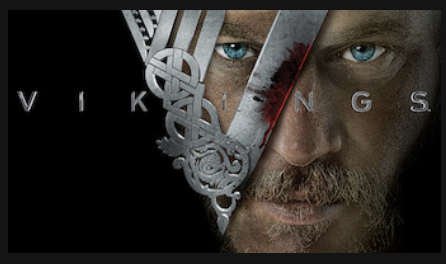
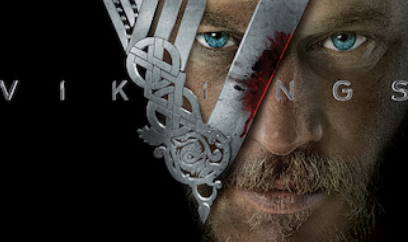
Añado las imagenes cartelera sección  documentales

Changed region(s): [[0.2353, 0.0, 1.0, 1.0], [0.0, 0.3182, 0.0882, 0.4339], [0.1471, 0.3182, 0.2059, 0.4339]]

diff --git a/css/style.css b/css/style.css
@@ -95,29 +95,64 @@ body{
     padding: 20px 25px;
 }
 
-.peli1{
-    background-color: yellow;
+.serie1{
     grid-column: 1/2;
+    display: flex;
+    justify-content: center;
+    align-items: center;
 }
 
-.peli2{
-    background-color: greenyellow;
+.serie1 img{
+    width: 95%;
+    height: 22.4vh;
+}
+
+.serie2{
     grid-column: 2/3;
+    display: flex;
+    justify-content: center;
+    align-items: center;
 }
 
-.peli3 {
-    background-color: yellow;
+.serie2 img{
+    width: 95%;
+    height: 22.4vh;
+}
+
+.serie3 {
     grid-column: 3/4;
+    display: flex;
+    justify-content: center;
+    align-items: center;
 }
 
-.peli4 {
-    background-color: greenyellow;
+.serie3 img{
+    width: 95%;
+    height: 22.4vh;
+}
+
+.serie4 {
     grid-column: 4/5;
+    display: flex;
+    justify-content: center;
+    align-items: center;
 }
 
-.peli5{
-    background-color: yellow;
+.serie4 img{
+    width: 95%;
+    height: 22.6vh;
+}
+
+.serie5{
     grid-column: 5/6;
+    display: flex;
+    justify-content: center;
+    align-items: center;
+}
+
+.serie5 img{
+    width: 95%;
+    height: 22.4vh;
 }
 
 .peli6 {

diff --git a/index.html b/index.html
@@ -43,11 +43,21 @@
 
       <!-- Main -->
       <div class="title">Documentales</div>
-      <div class="peli1">1</div>
-      <div class="peli2">2</div>
-      <div class="peli3">3</div>
-      <div class="peli4">4</div>
-      <div class="peli5">5</div>
+      <div class="serie1">
+        <img src="./img/serie1.jpg" alt="Damher">
+      </div>
+      <div class="serie2">
+        <img src="./img/serie2.jpg" alt="Equinox">
+      </div>
+      <div class="serie3">
+        <img src="./img/serie3.png" alt="Vikings">
+      </div>
+      <div class="serie4">
+        <img src="./img/serie4.jpg" alt="Echoe">
+      </div>
+      <div class="serie5">
+        <img src="./img/serie5.jpg" alt="The Crown">
+      </div>
       <div class="title">Volver a ver</div>
       <div class="peli6">6</div>
       <div class="peli7">7</div>
